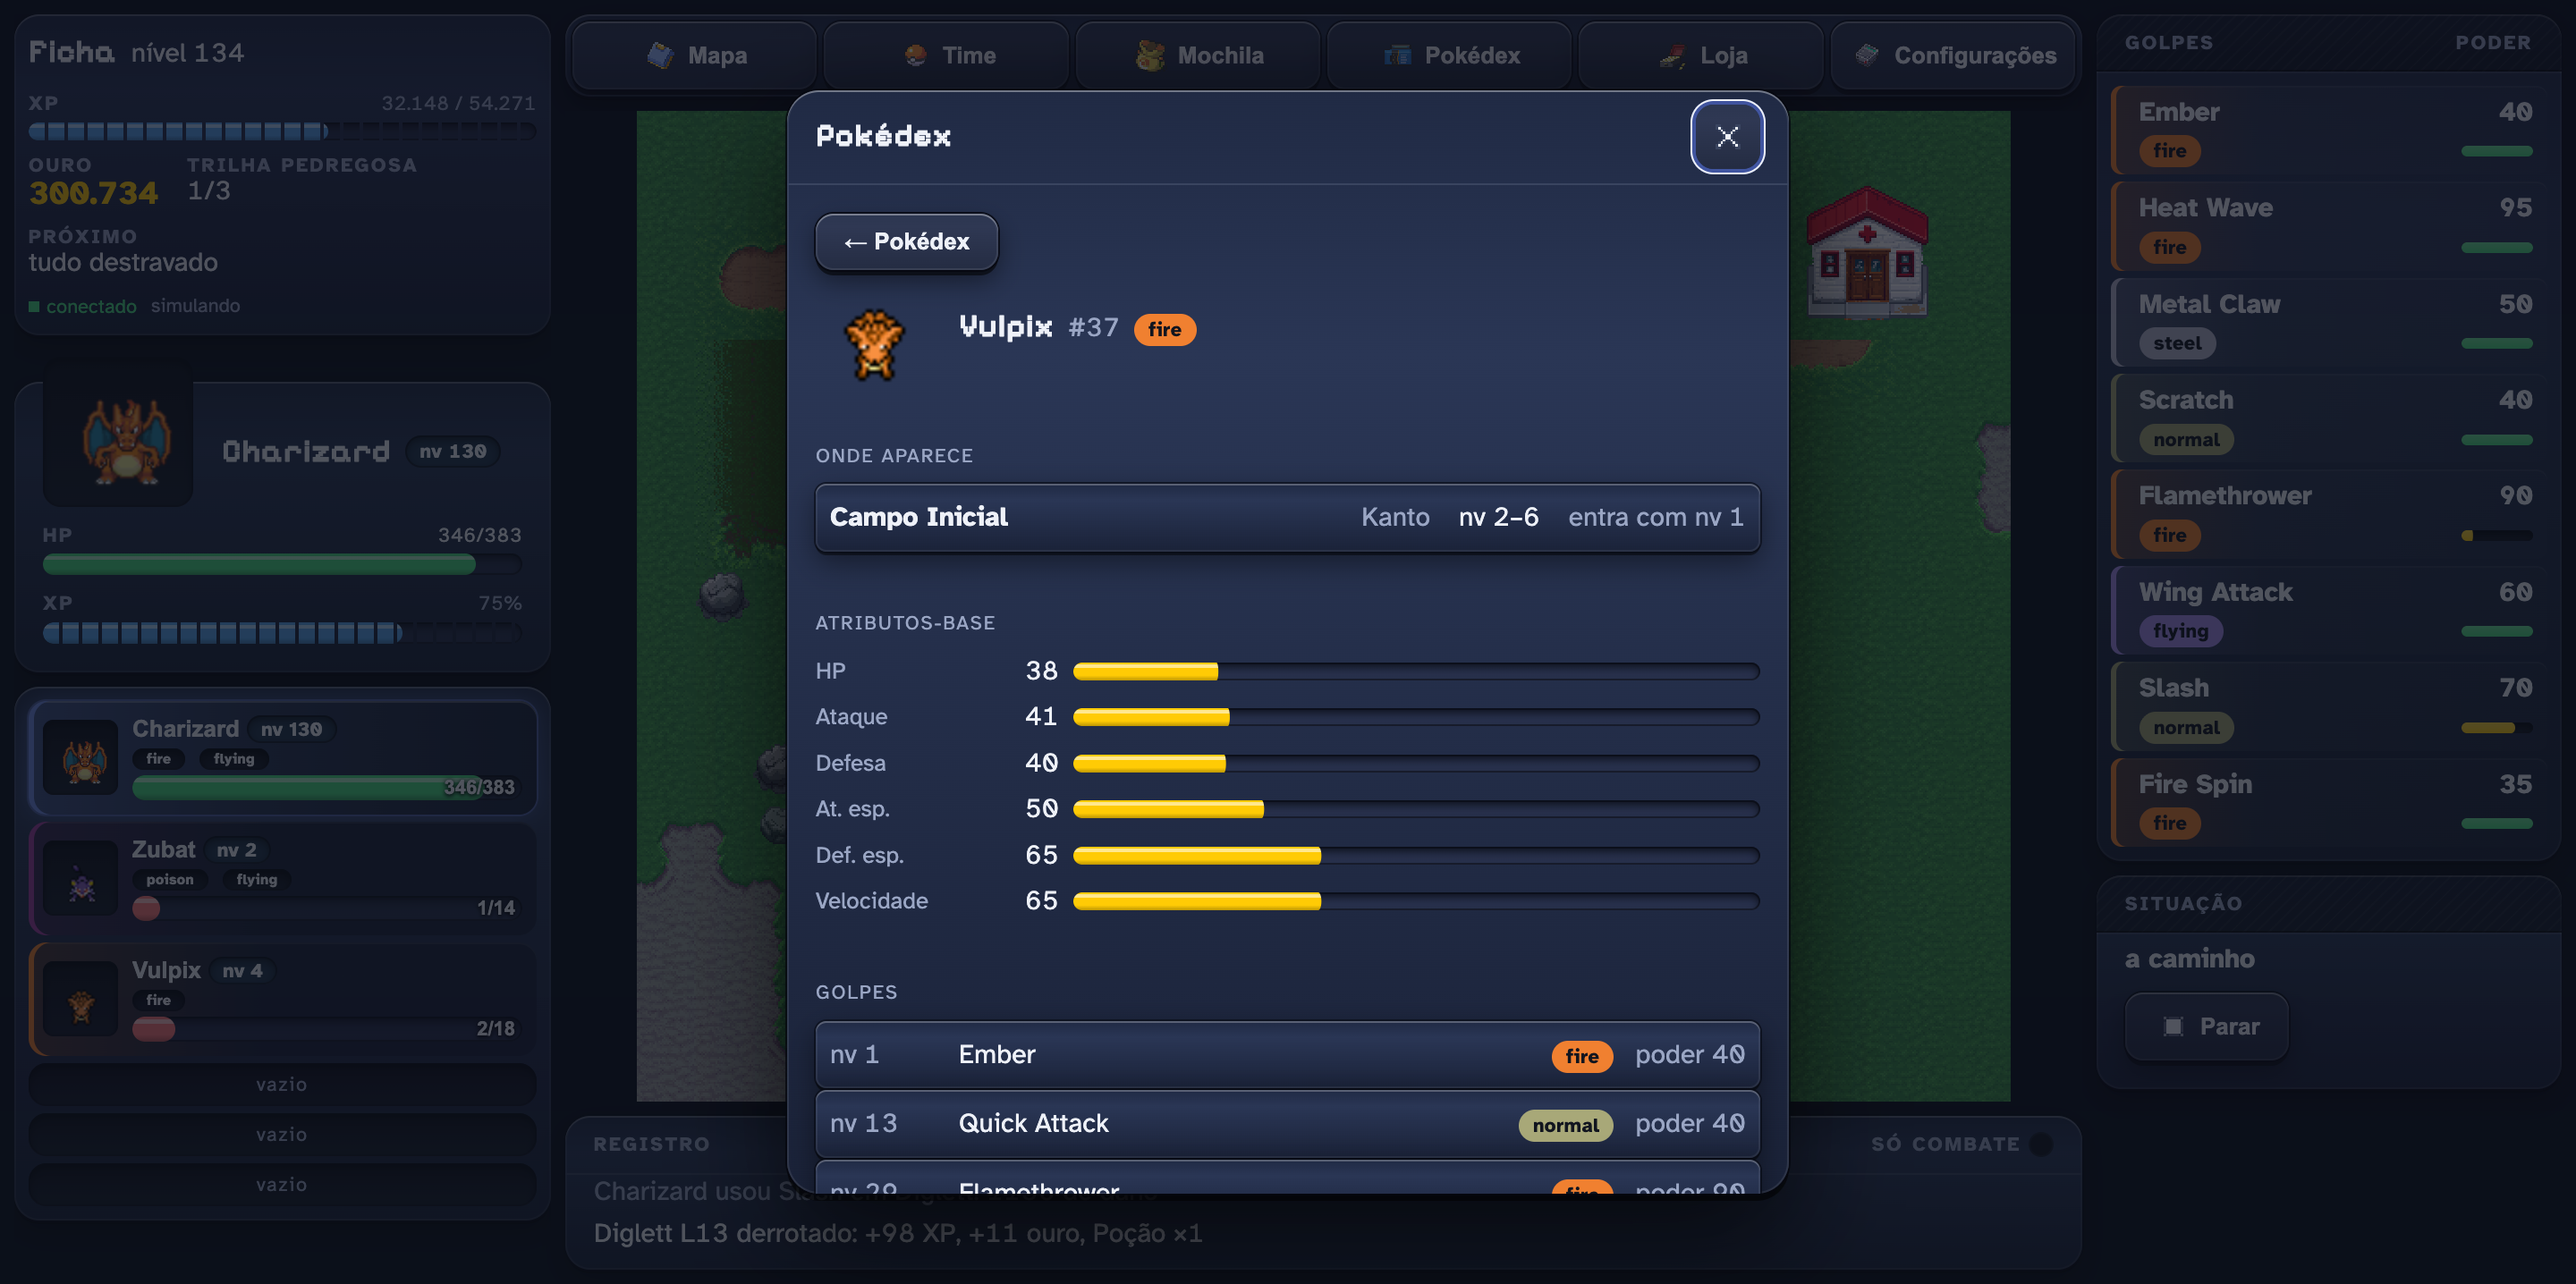
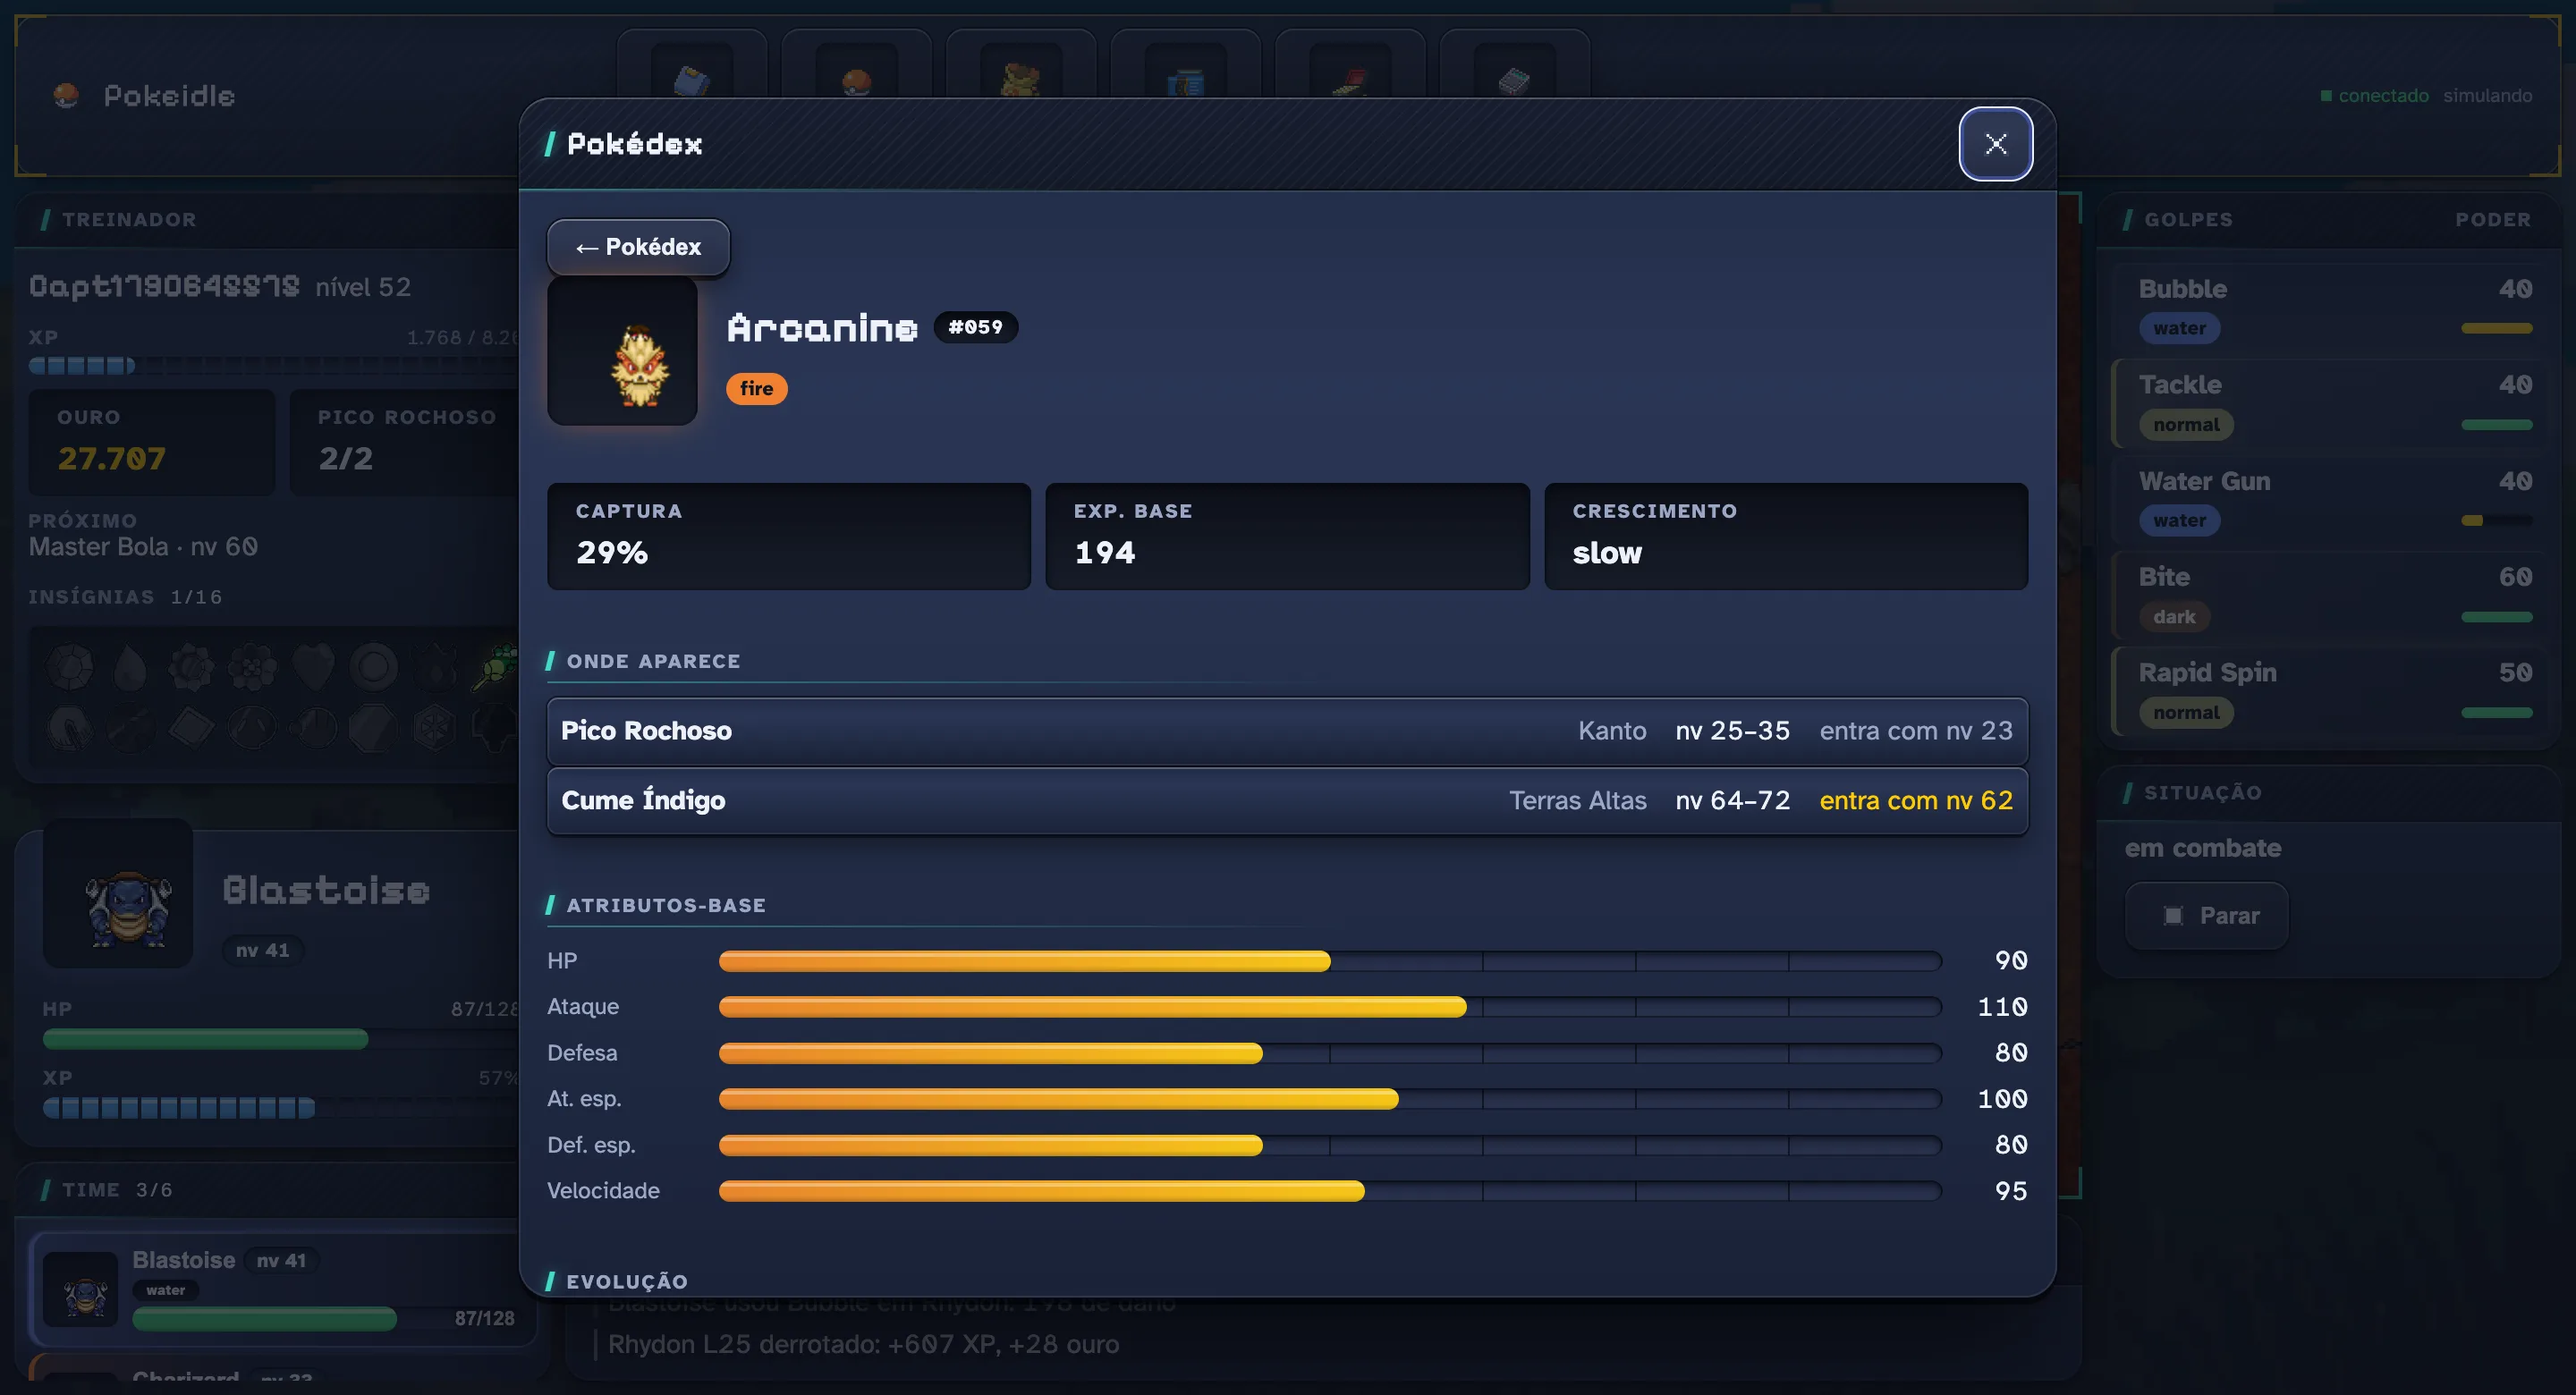
docs: capturas de tela novas, e a origem da arte dita por inteiro
As quatro imagens do README eram de 21 de setembro — anteriores à caverna
recortada do OpenTibia, ao controle de zoom e aos selvagens que andam. Três
foram refeitas e uma entrou:

  jogo   a caverna, com o Blastoise acertando 49 de dano num Arcanine a três
         tiles: é o ataque à distância acontecendo, que antes não existia
  mapa   NOVA — o mapa-múndi com os marcadores e o analisador da área aberto,
         medindo XP, ouro e captura com o time atual
  ficha  a ficha de espécie, agora do Arcanine

E UMA CORREÇÃO QUE A CAPTURA OBRIGOU. O README afirmava, na seção de licença,
que "o cenário é gerado pelo pipeline deste repositório e não vem do pack", e
que o teste `kanto-cenario` travava isso. Os dois deixaram de ser verdade para
o Pico Rochoso: ele é recorte do mapa de um servidor OpenTibia, desenhado com
sprites do Tibia, que são da CipSoft. O teste continua passando porque confere
o `.tmj` do Tiled — e essa área já não sai de lá.

Pôr a captura da caverna embaixo daquela frase seria ilustrar uma afirmação
falsa. O texto agora separa as duas origens e diz qual é qual, e o aviso de
remoção passa a cobrir também os sprites do Tibia.

diff --git a/README.md b/README.md
@@ -8,15 +8,21 @@ progresso continua com a aba fechada. A simulação inteira acontece no servidor
 **▶ Jogue: <https://pokeidle.187-77-37-92.sslip.io>** — crie uma conta, escolha o inicial e mande
 caçar. O progresso continua com a aba fechada.
 
-![A tela de jogo: o mundo ao centro, ficha e time à esquerda, golpes e situação à direita, registro embaixo](docs/imagens/jogo.webp)
+![A tela de jogo: numa caverna, o Blastoise do jogador acerta 49 de dano num Arcanine selvagem a três tiles de distância; ficha e time à esquerda, golpes e situação à direita, registro embaixo](docs/imagens/jogo.webp)
 
-O servidor simula; o cliente desenha o que recebe e manda intenção. O cenário é gerado pelo
-pipeline deste repositório — terreno, props e prédios saem de conjuntos próprios, e o mapa é
-composto por código a partir de uma lista de biomas.
+O servidor simula; o cliente desenha o que recebe e manda intenção. Na captura, o golpe sai de
+longe: o alcance vem do tipo do golpe — o que encosta e o que viaja —, e vale igual para o seu
+Pokémon e para o selvagem. Os selvagens não esperam parados: eles vagam, notam quem entra no campo
+de visão deles e vão atrás, e a rocha esconde.
+
+![O mapa-múndi com os marcadores das áreas; à direita, o analisador do Pico Rochoso listando espécies, XP, ouro e chance de captura com o time atual](docs/imagens/mapa.webp)
+
+Escolher para onde ir é a decisão do jogo, então ela tem um analisador: XP e ouro por derrota e
+chance de captura, medidos com o time que você tem agora — não com um número de tabela.
 
 | Ficha de espécie | Painel de operação |
 |---|---|
-| ![Ficha do Vulpix: onde aparece, atributos-base, evolução e golpes por nível](docs/imagens/ficha.webp) | ![Painel lendo /metrics: caçadas ativas, duração do tick, persistência e HTTP](docs/imagens/metricas.webp) |
+| ![Ficha do Arcanine: captura, experiência-base, onde aparece com o nível do portão, e atributos-base](docs/imagens/ficha.webp) | ![Painel lendo /metrics: caçadas ativas, duração do tick, persistência e HTTP](docs/imagens/metricas.webp) |
 
 A ficha responde a pergunta que decide a próxima caçada — onde essa espécie aparece, em que faixa
 de nível e se o portão já abriu. O painel lê o mesmo `/metrics` que um Prometheus raparia.
@@ -139,9 +145,19 @@ e um projeto aberto a PR precisa ser "clonou, rodou". O **dump bruto de 647 MB**
 Pokémon é marca da Nintendo, Creatures e Game Freak. Este é um projeto de fã, sem fim comercial e
 sem vínculo com elas. Se algum detentor de direito pedir a remoção de um asset, ele sai.
 
-O cenário — terreno, props, prédios e marcos — é gerado pelo pipeline deste repositório e não vem
-do pack; o teste `kanto-cenario` trava isso, recusando qualquer tile que não seja de conjunto
-próprio. A prévia abaixo sai de `pnpm assets map-preview` e é composta só desse material:
+O cenário tem DUAS origens, e vale dizer qual é qual.
 
-![Recorte do Campo Inicial: trilha, grama alta e o Centro Pokémon, tudo em arte gerada pelo projeto](docs/imagens/campo-inicial.webp) Quem clonar este repositório recebe o código inteiro e monta o
-próprio atlas com `pnpm assets build`, apontando para os assets que tiver. O código é do autor.
+As áreas desenhadas pelo pipeline deste repositório — terreno, props, prédios e marcos — não usam
+nada de pack, e o teste `kanto-cenario` trava isso sobre o mapa do Tiled, recusando qualquer tile
+que não seja de conjunto próprio. A prévia abaixo sai de `pnpm assets map-preview` e é composta só
+desse material:
+
+![Recorte do Campo Inicial: trilha, grama alta e o Centro Pokémon, tudo em arte gerada pelo projeto](docs/imagens/campo-inicial.webp)
+
+Já o **Pico Rochoso** — a caverna da primeira captura de tela — é um RECORTE do mapa de um servidor
+OpenTibia, desenhado com sprites do Tibia. Esses sprites são da CipSoft: não são arte própria, e o
+`kanto-cenario` não os cobre, porque ele confere o `.tmj` do Tiled e essa área já não sai de lá. O
+pedido de remoção vale para eles do mesmo jeito.
+
+Quem clonar este repositório recebe o código inteiro e monta o próprio atlas com
+`pnpm assets build`, apontando para os assets que tiver. O código é do autor.
